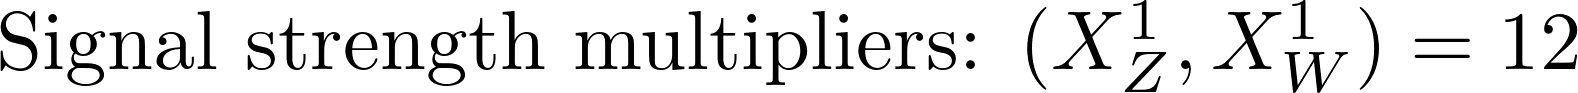
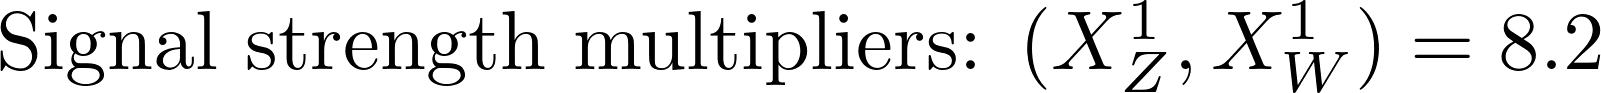
automated update by plotHiscore.py to ewk2_310:     K=9.603 TL=11.85 walkerid=0

diff --git a/protomodels/ewk2_310/index.html b/protomodels/ewk2_310/index.html
@@ -1,20 +1,20 @@
 <html>
 <body>
 <center>
-<table><td><h1>Current best protomodel: <i>K</i>=9.34, <i>TL</i>=11.59</h1><td><img height=60px src=https://smodels.github.io//protomodels/logos/protomodel_lego.png></table>
+<table><td><h1>Current best protomodel: <i>K</i>=9.60, <i>TL</i>=11.85</h1><td><img height=60px src=https://smodels.github.io//protomodels/logos/protomodel_lego.png></table>
 </center>
-<b><a href=./hiscore.slha>ProtoModel</a> <a href=./pmodel.dict>(dict)</a> produced with <a href=https://smodels.github.io//docs/Validation310>database v3.1.0</a>, combination strategy <a href=./matrix.png>aggressive</a> in walker 0 step 36.</b> <br>
+<b><a href=./hiscore.slha>ProtoModel</a> <a href=./pmodel.dict>(dict)</a> produced with <a href=https://smodels.github.io//docs/Validation310>database v3.1.0</a>, combination strategy <a href=./matrix.png>aggressive</a> in walker 0 step 231.</b> <br>
 <table width=80%>
 <tr><td>
 <br><b>2 predictions available. Highest r values are:</b><br><ul>
-<li><a href=https://atlas.web.cern.ch/Atlas/GROUPS/PHYSICS/PAPERS/EXOT-2018-06/>ATLAS-EXOT-2018-06</a>:em:TChiZISRqq r=1.23, r<sub>exp</sub>=1.33<br>
-<li><a href=http://cms-results.web.cern.ch/cms-results/public-results/publications/EXO-20-004/>CMS-EXO-20-004</a>:em:TChiZISRqq r=0.26, r<sub>exp</sub>=0.35<br>
+<li><a href=https://atlas.web.cern.ch/Atlas/GROUPS/PHYSICS/PAPERS/EXOT-2018-06/>ATLAS-EXOT-2018-06</a>:em:TChiZISRqq r=1.27, r<sub>exp</sub>=1.37<br>
+<li><a href=http://cms-results.web.cern.ch/cms-results/public-results/publications/EXO-20-004/>CMS-EXO-20-004</a>:em:TChiZISRqq r=0.27, r<sub>exp</sub>=0.35<br>
 </ul>
-<td><img width=600px src=./texdoc.png?1754809565>
-<br><span style='font-size: smaller; color: darkred;'>Last updated: Sun Aug 10 09:06:05 2025</span>
+<td><img width=600px src=./texdoc.png?1754810972>
+<br><span style='font-size: smaller; color: darkred;'>Last updated: Sun Aug 10 09:29:32 2025</span>
 </table><table style="width:80%">
-<td width=45%><img height=580px src=./ruler.png?1754809565><td width=55%><img height=220px src=./decays.png?1754809565>
-<font size=-3><iframe type="text/html" height="350px" width="100%" frameborder="0" src="./rawnumbers.html?1754809565"></iframe></font>
+<td width=45%><img height=580px src=./ruler.png?1754810972><td width=55%><img height=220px src=./decays.png?1754810972>
+<font size=-3><iframe type="text/html" height="350px" width="100%" frameborder="0" src="./rawnumbers.html?1754810972"></iframe></font>
 </table>
 </body>
 </html>

diff --git a/protomodels/ewk2_310/rawnumbers.html b/protomodels/ewk2_310/rawnumbers.html
@@ -2,7 +2,7 @@
 <tr><th>Analysis Name</th><th>Type</th><th>Dataset</th><th>Topos</th><th>Observed</th><th>Expected</th><th>Approx &sigma;</th><th>Particles</th>
 </tr>
 <tr><td><a href=https://atlas.web.cern.ch/Atlas/GROUPS/PHYSICS/PAPERS/EXOT-2018-06/>ATLAS-EXOT-2018-06</a></td><td>em</td> <td>EM10</td><td>TChiZISRqq</td><td>413</td><td>359.00 +/- 10.00</td><td style="text-align:right">2.5 &sigma;</td><td style="text-align:right">X<sup>1</sup><sub>W</sub>, X<sup>1</sup><sub>Z</sub></td></tr>
-<tr><td><a href=http://cms-results.web.cern.ch/cms-results/public-results/publications/EXO-20-004/>CMS-EXO-20-004</a></td><td>comb</td> <td>-</td><td>TChiZISRqq</td><td> 9e+01 fb </td><td> 7e+01 fb</td><td style="text-align:right">2.1 &sigma;</td><td style="text-align:right">X<sup>1</sup><sub>W</sub>, X<sup>1</sup><sub>Z</sub></td></tr>
+<tr><td><a href=http://cms-results.web.cern.ch/cms-results/public-results/publications/EXO-20-004/>CMS-EXO-20-004</a></td><td>comb</td> <td>-</td><td>TChiZISRqq</td><td> 9e+01 fb </td><td> 7e+01 fb</td><td style="text-align:right">2.2 &sigma;</td><td style="text-align:right">X<sup>1</sup><sub>W</sub>, X<sup>1</sup><sub>Z</sub></td></tr>
 </table>
 <table style='color:grey'>
 <tr><th>Not in Best Combo</th><th>Type</th><th>Dataset</th><th>Topos</th><th>Observed</th><th>Expected</th><th>Approx &sigma;</th><th>Particles</th></table>
